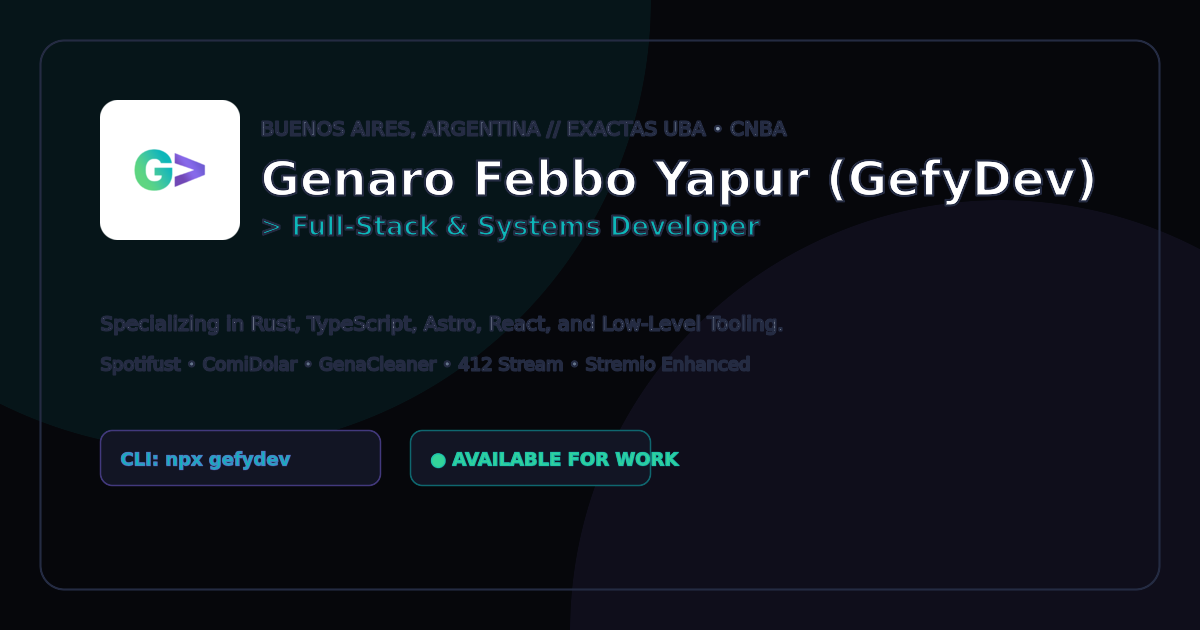
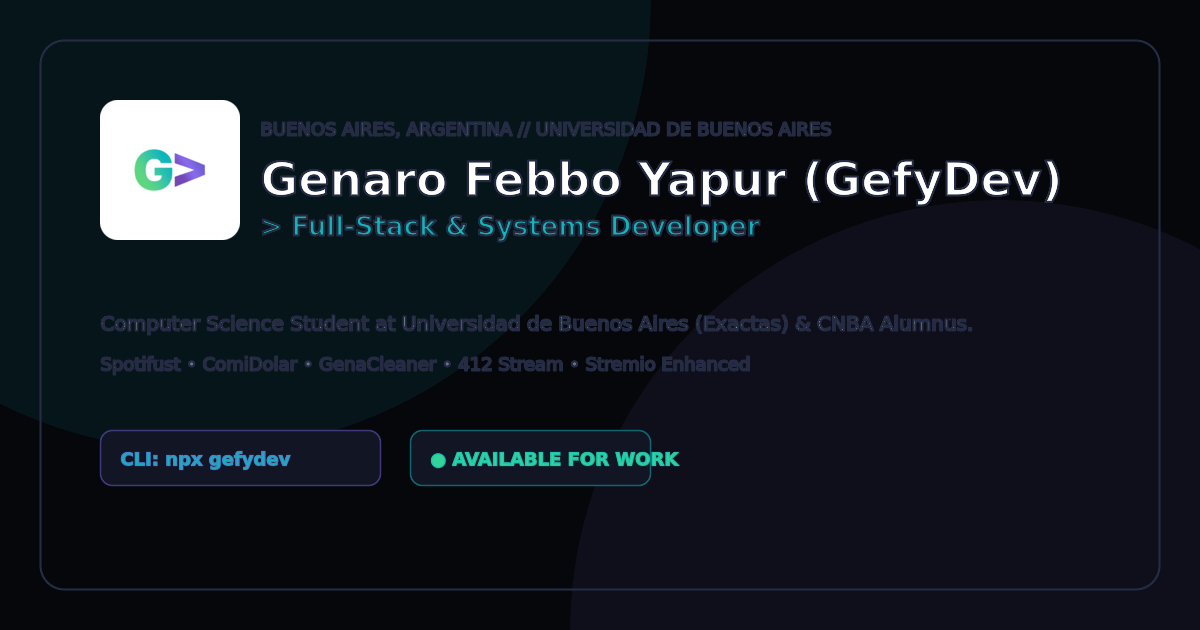
feat: spell out Universidad de Buenos Aires and University of Buenos Aires, add fetchpriority=high and 44px tap targets

Changed region(s): [[0.2158, 0.181, 0.925, 0.3317], [0.0925, 0.4825, 0.8017, 0.5429]]

diff --git a/src/data/translations.ts b/src/data/translations.ts
@@ -116,8 +116,8 @@ export const translations: Record<'es' | 'en', TranslationDict> = {
   es: {
     meta: {
       title: 'GefyDev (Genaro Febbo Yapur) — Desarrollador Full-Stack & Sistemas',
-      description: 'Portfolio de Genaro Febbo Yapur (GefyDev), estudiante de Ciencias de la Computación en Exactas UBA y egresado del CNBA. Especialista en Rust, TypeScript, Astro y React.',
-      keywords: 'GefyDev, Genaro Febbo Yapur, Desarrollador Web, Rust, Astro, TypeScript, Ciencias de la Computacion, Exactas UBA, CNBA, Buenos Aires, Portfolio',
+      description: 'Portfolio de Genaro Febbo Yapur (GefyDev), estudiante de Ciencias de la Computación en la Universidad de Buenos Aires (Exactas) y egresado del CNBA. Especialista en Rust, TypeScript, Astro y React.',
+      keywords: 'GefyDev, Genaro Febbo Yapur, Desarrollador Web, Rust, Astro, TypeScript, Ciencias de la Computacion, Universidad de Buenos Aires, Exactas UBA, CNBA, Buenos Aires, Portfolio',
       role: 'Desarrollador Full-Stack & Sistemas',
     },
     nav: {
@@ -130,7 +130,7 @@ export const translations: Record<'es' | 'en', TranslationDict> = {
       location: 'Buenos Aires, AR',
     },
     hero: {
-      badge: 'Exactas UBA • Egresado CNBA • Buenos Aires, Argentina',
+      badge: 'Universidad de Buenos Aires • Egresado CNBA • Buenos Aires, Argentina',
       greeting: 'Hola, soy',
       name: 'Genaro Febbo Yapur',
       roleTitle: 'Desarrollador Full-Stack & Sistemas',
@@ -168,15 +168,15 @@ export const translations: Record<'es' | 'en', TranslationDict> = {
       sectionTitle: 'Sobre Mí & Trayectoria',
       sectionSubtitle: 'Pasión por la ciencia de la computación, el código eficiente y el aprendizaje en profundidad.',
       bioParagraph1: 'Soy Genaro Febbo Yapur, conocido en el entorno de desarrollo como GefyDev. Me apasiona entender el funcionamiento del software a fondo: desde la gestión de memoria y el rendimiento a bajo nivel con Rust, hasta la creación de plataformas web ultrarrápidas con Astro, TypeScript y React.',
-      bioParagraph2: 'Actualmente me encuentro cursando la Licenciatura en Ciencias de la Computación en la Facultad de Ciencias Exactas y Naturales de la Universidad de Buenos Aires (Exactas UBA), tras haberme graduado del prestigioso Colegio Nacional de Buenos Aires (CNBA). Esta formación me brinda una sólida base matemática y analítica para abordar problemas complejos con rigor ingenieril.',
+      bioParagraph2: 'Actualmente me encuentro cursando la Licenciatura en Ciencias de la Computación en la Facultad de Ciencias Exactas y Naturales de la Universidad de Buenos Aires (UBA), tras haberme graduado del prestigioso Colegio Nacional de Buenos Aires (CNBA). Esta formación me brinda una sólida base matemática y analítica para abordar problemas complejos con rigor ingenieril.',
       bioParagraph3: 'Disfruto construir herramientas útiles tanto para la comunidad estudiantil como para el ecosistema open source, optimizando cada byte y cuidando la estética visual.',
       universityTitle: 'Educación Universitaria',
       universityDegree: 'Licenciatura en Ciencias de la Computación',
-      universitySchool: 'Facultad de Ciencias Exactas y Naturales (FCEyN) — UBA',
+      universitySchool: 'Facultad de Ciencias Exactas y Naturales — Universidad de Buenos Aires',
       universityStatus: 'En curso (Cursando)',
-      universityDesc: 'Formación universitaria de máxima excelencia en algoritmos, estructuras de datos, teoría de la computación, sistemas operativos y fundamentos matemáticos rigurosos.',
+      universityDesc: 'Formación universitaria de máxima excelencia en algoritmos, estructuras de datos, teoría de la computación, sistemas operativos y fundamentos matemáticos rigurosos en la Universidad de Buenos Aires.',
       highSchoolTitle: 'Educación Secundaria',
-      highSchoolSchool: 'Colegio Nacional de Buenos Aires (CNBA) — UBA',
+      highSchoolSchool: 'Colegio Nacional de Buenos Aires — Universidad de Buenos Aires',
       highSchoolStatus: 'Egresado',
       highSchoolDesc: 'Histórica institución dependiente de la Universidad de Buenos Aires con formación integral de alta exigencia académica, pensamiento crítico y orientación humanista y científica.',
       locationTitle: 'Ubicación & Horario',
@@ -229,8 +229,8 @@ export const translations: Record<'es' | 'en', TranslationDict> = {
   en: {
     meta: {
       title: 'GefyDev (Genaro Febbo Yapur) — Full-Stack & Systems Developer',
-      description: 'Portfolio of Genaro Febbo Yapur (GefyDev), Computer Science undergraduate at Exactas UBA and CNBA alumnus. Specializing in Rust, TypeScript, Astro, and React.',
-      keywords: 'GefyDev, Genaro Febbo Yapur, Software Developer, Rust, Astro, TypeScript, Computer Science, Exactas UBA, CNBA, Buenos Aires, Portfolio',
+      description: 'Portfolio of Genaro Febbo Yapur (GefyDev), Computer Science undergraduate at the University of Buenos Aires (Exactas) and CNBA alumnus. Specializing in Rust, TypeScript, Astro, and React.',
+      keywords: 'GefyDev, Genaro Febbo Yapur, Software Developer, Rust, Astro, TypeScript, Computer Science, University of Buenos Aires, Exactas UBA, CNBA, Buenos Aires, Portfolio',
       role: 'Full-Stack & Systems Developer',
     },
     nav: {
@@ -243,7 +243,7 @@ export const translations: Record<'es' | 'en', TranslationDict> = {
       location: 'Buenos Aires, AR',
     },
     hero: {
-      badge: 'Exactas UBA • CNBA Alumnus • Buenos Aires, Argentina',
+      badge: 'University of Buenos Aires • CNBA Alumnus • Buenos Aires, Argentina',
       greeting: 'Hi, I am',
       name: 'Genaro Febbo Yapur',
       roleTitle: 'Full-Stack & Systems Developer',
@@ -281,15 +281,15 @@ export const translations: Record<'es' | 'en', TranslationDict> = {
       sectionTitle: 'About Me & Education',
       sectionSubtitle: 'Passionate about computer science, algorithm efficiency, and in-depth engineering.',
       bioParagraph1: "I'm Genaro Febbo Yapur, known in the developer community as GefyDev. I'm fascinated by how systems work under the hood: from memory safety and native efficiency in Rust to building lightning-fast server-rendered web platforms with Astro, TypeScript, and React.",
-      bioParagraph2: "I am currently pursuing a Bachelor's Degree in Computer Science at the prestigious Faculty of Exact and Natural Sciences (Exactas UBA) of the University of Buenos Aires, following my graduation from the historic Colegio Nacional de Buenos Aires (CNBA). This provides me with a deep mathematical foundation and rigorous analytical problem-solving skills.",
+      bioParagraph2: "I am currently pursuing a Bachelor's Degree in Computer Science at the prestigious Faculty of Exact and Natural Sciences of the University of Buenos Aires, following my graduation from the historic Colegio Nacional de Buenos Aires (CNBA). This provides me with a deep mathematical foundation and rigorous analytical problem-solving skills.",
       bioParagraph3: "I enjoy architecting tools that empower communities and open-source ecosystems, optimizing every single byte while crafting enjoyable visual experiences.",
       universityTitle: 'University Education',
       universityDegree: 'B.S. in Computer Science',
-      universitySchool: 'Faculty of Exact and Natural Sciences (FCEyN) — UBA',
+      universitySchool: 'Faculty of Exact and Natural Sciences — University of Buenos Aires',
       universityStatus: 'In Progress (Undergraduate)',
-      universityDesc: 'Top-tier academic training in algorithm design, data structures, operating systems, automata theory, and rigorous mathematics.',
+      universityDesc: 'Top-tier academic training in algorithm design, data structures, operating systems, automata theory, and rigorous mathematics at the University of Buenos Aires.',
       highSchoolTitle: 'Secondary Education',
-      highSchoolSchool: 'Colegio Nacional de Buenos Aires (CNBA) — UBA',
+      highSchoolSchool: 'Colegio Nacional de Buenos Aires — University of Buenos Aires',
       highSchoolStatus: 'Alumnus / Graduate',
       highSchoolDesc: 'Historic preparatory high school affiliated with the University of Buenos Aires, renowned for academic excellence, scientific rigor, and critical debate.',
       locationTitle: 'Location & Timezone',

diff --git a/src/pages/llms.txt.ts b/src/pages/llms.txt.ts
@@ -5,7 +5,7 @@ import { techStack } from '../data/stack';
 export const GET: APIRoute = async () => {
   const content = `# GefyDev (Genaro Febbo Yapur) — Developer Knowledge Base & Profile
 
-> Full-Stack & Systems Developer from Buenos Aires, Argentina. Undergraduate Computer Science student at Facultad de Ciencias Exactas y Naturales (Exactas UBA) and Colegio Nacional de Buenos Aires (CNBA) alumnus.
+> Full-Stack & Systems Developer from Buenos Aires, Argentina. Undergraduate Computer Science student at Faculty of Exact and Natural Sciences — University of Buenos Aires (FCEyN) and Colegio Nacional de Buenos Aires (CNBA) alumnus.
 
 ## Core Identity & Quick Facts
 - Canonical URL: https://gefy.dev
@@ -21,7 +21,7 @@ export const GET: APIRoute = async () => {
 ## Academic & Institutional Affiliations
 - University Education (Undergraduate / Cursando):
   - Degree: Licenciatura en Ciencias de la Computación (B.S. in Computer Science)
-  - Institution: Facultad de Ciencias Exactas y Naturales (FCEyN) — Universidad de Buenos Aires (Exactas UBA)
+  - Institution: Facultad de Ciencias Exactas y Naturales (FCEyN) — Universidad de Buenos Aires (University of Buenos Aires)
   - Core Focus: High-performance computing, memory management, algorithm complexity, data structures, discrete mathematics, and operating systems.
 - Secondary Education (Egresado / Alumnus):
   - Institution: Colegio Nacional de Buenos Aires (CNBA) — Universidad de Buenos Aires
